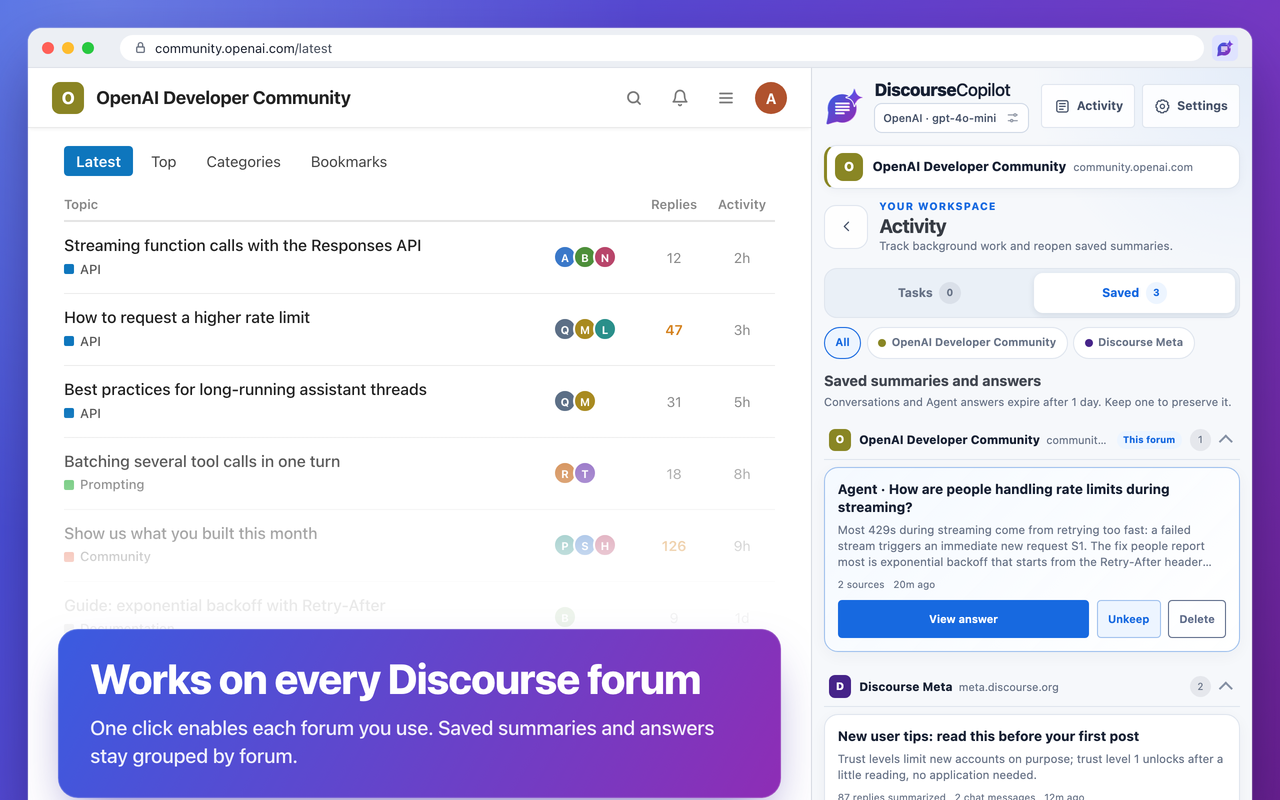
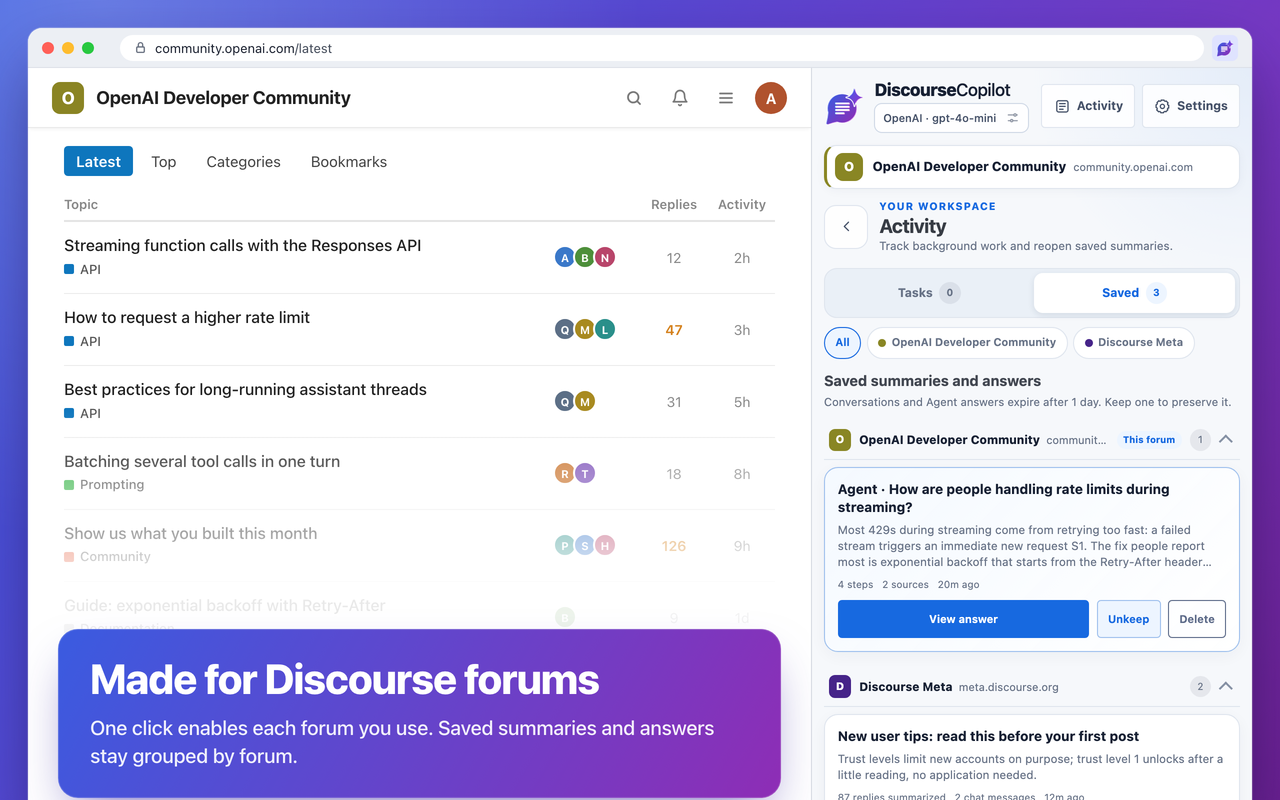
docs: privacy-first README, store review note, accuracy pass
Mirror the star call-to-action pattern, add a Privacy first section
backed by the code's actual network surface, explain the Chrome Web
Store review delay, remove overclaims across the docs, fix changelog
entries that were copied into older releases, and change store
screenshot 3's caption to "Made for Discourse forums".

Changed region(s): [[0.0625, 0.8125, 0.5625, 0.875], [0.6562, 0.7188, 0.75, 0.75]]

diff --git a/README.md b/README.md
@@ -5,41 +5,66 @@
   </picture>
 </h1>
 
+<h3 align="center">Catch up on any Discourse forum in seconds.</h3>
+
 <p align="center">
-  <strong>Catch up on any Discourse forum in seconds.</strong><br>
   Summarize long topics, ask follow-up questions, and let AI search the whole forum for you, with links to the posts it used.
 </p>
 
 <p align="center">
   <a href="https://chromewebstore.google.com/detail/discoursecopilot/dpngnaiiofobfjleabbhnfmdflddnhac"><img src="https://img.shields.io/chrome-web-store/v/dpngnaiiofobfjleabbhnfmdflddnhac?label=Chrome%20Web%20Store&logo=googlechrome&logoColor=white&color=4285F4" alt="Chrome Web Store version"></a>
-  <img src="https://img.shields.io/badge/license-Apache--2.0-blue.svg" alt="Apache-2.0 license">
+  <a href="https://github.com/kccarlos/DiscourseCopilot/releases/latest"><img src="https://img.shields.io/github/v/release/kccarlos/DiscourseCopilot?label=release&logo=github" alt="Latest GitHub release"></a>
+  <a href="LICENSE"><img src="https://img.shields.io/badge/license-Apache--2.0-blue" alt="License: Apache-2.0"></a>
+  <img src="https://img.shields.io/badge/Manifest-V3-4285F4?logo=googlechrome&logoColor=white" alt="Chrome extension, Manifest V3">
+  <a href="https://github.com/kccarlos/DiscourseCopilot/stargazers"><img src="https://img.shields.io/github/stars/kccarlos/DiscourseCopilot?style=social" alt="GitHub stars"></a>
 </p>
 
 <p align="center">
-  <a href="https://chromewebstore.google.com/detail/discoursecopilot/dpngnaiiofobfjleabbhnfmdflddnhac"><strong>➜ Add DiscourseCopilot to Chrome</strong></a> — free
+  <a href="https://chromewebstore.google.com/detail/discoursecopilot/dpngnaiiofobfjleabbhnfmdflddnhac"><strong>➜ Add DiscourseCopilot to Chrome</strong></a> (free)
+</p>
+
+<p align="center">
+  <a href="https://github.com/kccarlos/DiscourseCopilot"><b>⭐ Star on GitHub</b></a>
+  to follow new releases. It is free, and it helps other forum readers find DiscourseCopilot.
 </p>
 
 ![DiscourseCopilot in the Chrome side panel: a topic summary, an answer with sources, and dark mode](docs/screenshots/hero.png)
 
-DiscourseCopilot is a free Chrome extension. It opens in your browser's side panel next to any forum built on Discourse, like [meta.discourse.org](https://meta.discourse.org), [community.openai.com](https://community.openai.com), or your own community.
+DiscourseCopilot is a free, open-source Chrome extension. It opens in your browser's side panel next to a forum built on Discourse, like [meta.discourse.org](https://meta.discourse.org), [community.openai.com](https://community.openai.com), or your own community. You bring your own AI (a provider's API key, or a model on your own computer), and **it has no servers, accounts, or analytics of its own**: see [Privacy first](#privacy-first).
+
+## Privacy first
+
+DiscourseCopilot is built so your reading stays yours.
+
+- **No analytics, no tracking, no accounts.** There is no telemetry and no sign-up.
+- **No DiscourseCopilot servers.** Nothing is sent to the developer, because there is nowhere to send it.
+- **Your data stays in your browser.** Settings, API keys, and your saved summaries, chats, and answers are stored on your computer only.
+- **Only two kinds of network calls.**
+  1. **The forums you allow**, to read topics and search, using your existing login there. Access is granted one forum at a time and you can remove it in Settings.
+  2. **The AI provider you choose**, with your own key. It receives the forum text you ask about and your questions. **With a local model (Ollama or LM Studio), nothing leaves your computer** (unless you point it at a server on another machine).
+- **Your key goes only to its own provider.** That includes the request that lists the provider's models.
+
+The details, including what is stored and for how long, are in the [privacy policy](PRIVACY.md). The code is open, so you can check all of this yourself.
 
 ## Why you'll like it
 
 - **Skip the scroll.** Get the main points of a 500-reply topic without reading every post.
 - **Ask questions.** Chat about the topic: "What did people decide?" or "Is there a workaround?"
 - **Search the whole forum.** Ask a question and an agent looks through the forum for you, step by step, then answers with numbered sources you can click. You can watch what it does and ask follow-ups.
-- **Works on any Discourse forum.** Allow access once per forum you use; nothing else to set up.
-- **Use the AI you like.** OpenAI, Anthropic (Claude), Google Gemini, and more, or a free model running on your own computer.
-- **Private by design.** Your key and your history stay in your browser. No accounts and no tracking.
+- **Made for Discourse forums.** Allow access once per forum you use; nothing else to set up.
+- **Use the AI you like.** OpenAI, Anthropic (Claude), Google Gemini, and more (see [the list](#choosing-an-ai-provider)), or a free model running on your own computer.
 - **Keep browsing.** Work runs in the background, and you can come back to it later.
+- **Check the answers.** AI can be wrong. Summaries and answers link back to the posts so you can verify what matters.
 
 ## Get started in 3 steps
 
 **1. Install the extension.**
 Open [DiscourseCopilot in the Chrome Web Store](https://chromewebstore.google.com/detail/discoursecopilot/dpngnaiiofobfjleabbhnfmdflddnhac) and click **Add to Chrome**. Then click the puzzle-piece icon in the toolbar and pin **DiscourseCopilot** so it's easy to reach.
 
+> **About store updates.** New versions reach the Chrome Web Store only after Google reviews them, which can take anywhere from a few hours to several days. So the store can be a little behind the newest [GitHub Release](https://github.com/kccarlos/DiscourseCopilot/releases/latest). If you want the newest version right away, install the zip from GitHub (below). Chrome updates the store version for you once it is approved.
+
 <details>
-<summary>Prefer to install from GitHub instead?</summary>
+<summary>Want the newest version right away? Install from GitHub</summary>
 
 1. Go to the [Releases page](https://github.com/kccarlos/DiscourseCopilot/releases) and download the latest `discourse-copilot-<version>.zip`.
 2. Unzip it.
@@ -47,13 +72,15 @@ Open [DiscourseCopilot in the Chrome Web Store](https://chromewebstore.google.co
 4. Click **Load unpacked** and choose the unzipped folder.
 5. Click the puzzle-piece icon in the toolbar and pin **DiscourseCopilot**.
 
+An unpacked install is not updated automatically. To update it, download the new zip, replace the files in that folder, and click the reload icon on the extension's card in `chrome://extensions`. Chrome may show a "Developer mode" reminder when it starts; that is normal for extensions installed this way.
+
 </details>
 
 **2. Connect an AI provider.**
-Click the DiscourseCopilot icon to open the side panel. A short setup card asks you to pick a provider, paste your API key, and pick a model (a fast, low-cost one from your provider's current list is filled in for you). See [Choosing an AI provider](#choosing-an-ai-provider) if you're not sure which to pick.
+Click the DiscourseCopilot icon to open the side panel. A short setup card asks you to pick a provider, paste your API key, and pick a model (a recommended one from your provider's current list is filled in for you, usually a fast, low-cost model). See [Choosing an AI provider](#choosing-an-ai-provider) if you're not sure which to pick.
 
 **3. Open a forum topic, allow access, then Create summary.**
-Open any topic on a Discourse forum and click the DiscourseCopilot icon. The first time you use a forum, the side panel shows **Allow DiscourseCopilot on *forum name***: click **Allow access**, then choose **Allow** when Chrome asks. Then click **Create summary**. Each forum asks only once, and after that the DiscourseCopilot button also appears in the corner of its pages.
+Open any topic on a Discourse forum (log in first if it needs a login) and click the DiscourseCopilot icon. The first time you use a forum, the side panel shows **Allow DiscourseCopilot on *forum name***: click **Allow access**, then choose **Allow** when Chrome asks. Then click **Create summary**. Each forum asks only once, and after that the DiscourseCopilot button also appears in the corner of its pages.
 
 <img src="docs/screenshots/feature-allow-access.png" alt="The side panel asking to allow DiscourseCopilot on a forum, with three short steps and an Allow access button" width="420">
 
@@ -66,7 +93,7 @@ On a page that isn't a Discourse forum, the side panel says so and suggests foru
     <td width="50%" valign="top">
       <img src="docs/screenshots/feature-summary-chat.png" alt="A topic summary followed by a short chat about the topic">
       <p><strong>Summaries and chat</strong><br>
-      See the original post, how people responded, and the key takeaways, even on huge topics (every page is read, unless you set a limit). Then ask follow-up questions.</p>
+      See the original post, how people responded, and the key takeaways, even on huge topics (every page is read unless you set a limit, so very long topics take longer and use more of your provider's tokens). Then ask follow-up questions.</p>
     </td>
     <td width="50%" valign="top">
       <img src="docs/screenshots/feature-agent-answer.png" alt="An answer from Ask the forum with numbered sources">
@@ -109,7 +136,7 @@ The top of the side panel always shows which AI provider and model you're using.
 3. The answer appears with numbered sources like [S1]. Click one to jump to its source card, which links to the topic.
 4. Ask a **follow-up** under the answer. It continues the same conversation, on the same forum, with a fresh budget.
 
-The agent only reads: it never posts or changes anything. It can also look at your own saved summaries of that forum. Text from the forum is treated as material to quote, never as instructions. Because the agent asks your AI model for one action at a time, a larger model works best; very small local models may struggle to answer in the format it needs.
+The agent only reads: its tools can search, list, and read topics, and check your saved summaries, and none of them can post or change anything on the forum. Forum text is passed to the model as material to quote, with instructions not to follow commands found in it (a model can still be misled by cleverly written text, which is why the agent has no tools that write). Because the agent asks your AI model for one action at a time in a fixed format, a capable model works best; very small local models may struggle to follow it.
 
 ## Choosing an AI provider
 
@@ -157,17 +184,19 @@ Open **Settings** from the side panel (or right-click the extension icon and cho
 
 ## Privacy in plain words
 
-- **Your key and history stay in your browser.** Settings, API keys, summaries, chats, and answers are saved on your computer only.
-- **Forum posts go only to the AI you chose.** When you summarize or ask something, the topic and your question are sent straight from your browser to your AI provider.
+The short version is in [Privacy first](#privacy-first). In detail:
+
+- **Your key and history stay in your browser.** Settings, API keys, summaries, chats, and answers are saved on your computer only (in the extension's own storage). Chrome stores them unencrypted, so anyone who can use your Chrome profile on your computer could read them. Remove them in Settings, or by uninstalling the extension.
+- **Forum posts go only to the AI you chose.** When you summarize or ask something, the topic text and your question are sent straight from your browser to your AI provider. Check your provider's privacy policy for what it does with them. With a local model on your own computer, they go nowhere else.
 - **No middleman.** There are no DiscourseCopilot servers, no accounts, and no analytics.
-- **It only reads forums you enable.** Chrome gives it access to a forum only after you click **Allow access** for that forum, and you can remove access anytime in Settings. It can't see other websites.
+- **It only reads forums you enable.** Chrome gives it access to a forum only after you click **Allow access** for that forum, and you can remove access anytime in Settings. When you click the toolbar icon, it takes a one-time look at that page to see whether it is a Discourse forum; that is all it learns about other sites. The side panel also loads the forum icon (`/favicon.ico`) from the forum you are on.
 
 Read the full [privacy policy](PRIVACY.md).
 
 ## FAQ
 
-**Does it work on forums where I have to log in, or on private forums?**
-Yes. It reads the forum the same way your browser does, using your login. If you're logged in, it can read what you can read. If the forum asks you to log in or pass a check, log in on that forum in a normal tab. For **Ask the forum**, the search pauses and waits: click **Continue** when you're done. For a summary, just click **Create summary** again.
+**Does it work on every Discourse forum, including ones where I have to log in?**
+It works on Discourse forums in general, but a forum's own settings still apply. DiscourseCopilot reads a forum the same way your browser does, using your login, so if you're logged in it can read what you can read. Some forums restrict search or reading for certain users, limit how fast they can be read, or show a check that automated requests can't pass; there, a summary or answer can be incomplete or fail. If the forum asks you to log in or pass a check, do that on the forum in a normal tab. For **Ask the forum**, the search pauses and waits: click **Continue** when you're done. For a summary, just click **Create summary** again.
 
 **Why does it ask for permission per forum?**
 Discourse forums live on thousands of different websites, so DiscourseCopilot can't know them in advance. Instead of asking to "read and change all your data on all websites" when you install it, it asks for one forum at a time, the first time you use that forum. That access lets it read topics and search the forum in the background (even after you switch tabs) using your login there. You can see and remove every forum you allowed in **Settings → Forum access**; removing access doesn't delete your saved summaries or answers.
@@ -182,7 +211,7 @@ Version 2.1 switched from access to every website to access per forum, so forums
 There are two kinds. If the *forum* asks DiscourseCopilot to slow down, the side panel shows "Forum asked us to slow down" and tries again on its own after a short wait, so you don't need to do anything. If your *AI provider* is limiting you, wait a minute and try again, and check your plan and usage with your provider.
 
 **"Ask the forum" is greyed out, or the side panel doesn't recognize the forum.**
-Click the DiscourseCopilot icon in the toolbar while the forum is open, and click **Allow access** if the side panel asks (then choose **Allow** in Chrome's prompt). Also make sure you're on a Discourse forum (most say "Powered by Discourse" at the bottom). If you allowed access from the **Is this a Discourse forum?** card on a site that isn't one, remove it in **Settings → Forum access**.
+Click the DiscourseCopilot icon in the toolbar while the forum is open, and click **Allow access** if the side panel asks (then choose **Allow** in Chrome's prompt). Also make sure you're on a Discourse forum (many say "Powered by Discourse" at the bottom). If you allowed access from the **Is this a Discourse forum?** card on a site that isn't one, remove it in **Settings → Forum access**.
 
 **My summary says "Page limit reached" or "first 1,999 of 2,430 replies".**
 You've set a limit on **Pages read per topic**, so a longer topic is summarized from its first pages. To include more, choose **Read every page** (or a higher limit) in Settings, then click **Check for new replies**. It will take longer and cost a bit more. By default there is no limit. On the rare forum that doesn't report a topic's length, reading stops after 100 pages (10,000 posts) as a safety net.
@@ -194,7 +223,10 @@ Open Settings, scroll to **Forum access**, and turn off **Show the DiscourseCopi
 DiscourseCopilot removes the `Origin` header from its own requests to `localhost`, `127.0.0.1` and any local server address you allowed, which is what lets a default Ollama install accept it. Web pages are not affected, so Ollama still refuses them. If you still see a 403, update Ollama and reload the extension; as a fallback, start Ollama with `OLLAMA_ORIGINS=chrome-extension://*`.
 
 **What gets sent, and to whom?**
-Only the forum content needed for your request and your question, sent to the AI provider you set up. Nothing is sent to us. The forum itself only sees normal page requests from your browser, like when you browse it.
+Only the forum content needed for your request and your question, sent to the AI provider you set up (or to your local model server). Nothing is sent to us. The forum sees requests for its topic and search data, made from your browser with your login, the same kind your browser makes when you read it, so forum admins may see them in their logs. See [Privacy first](#privacy-first).
+
+**Why is the Chrome Web Store version older than the latest GitHub Release?**
+Every new version goes through Google's review before the store offers it. That can take from a few hours to several days, so the store may lag behind GitHub. Once approved, Chrome updates the extension for you. To get a release right away, install its zip from the [Releases page](https://github.com/kccarlos/DiscourseCopilot/releases/latest) (see [Get started](#get-started-in-3-steps)), and switch back to the store version later if you like.
 
 **Does it cost anything?**
 The extension is free. Your AI provider may charge for usage, usually a small amount per summary. Local models (Ollama, LM Studio) cost nothing to use.
@@ -218,3 +250,5 @@ Open Settings, check the key and model, and click **Test Connection**. Also chec
 ## License
 
 Apache License 2.0. See [LICENSE](LICENSE). Made by [kccarlos](https://github.com/kccarlos).
+
+If DiscourseCopilot saves you time, a [⭐ star on GitHub](https://github.com/kccarlos/DiscourseCopilot) is a friendly way to say thanks. It helps other forum readers find the extension.

diff --git a/CHANGELOG.md b/CHANGELOG.md
@@ -1,14 +1,16 @@
 # Changelog
 
-Notable changes to DiscourseCopilot. The format follows [Keep a Changelog](https://keepachangelog.com/en/1.1.0/), and versions follow [Semantic Versioning](https://semver.org/spec/v2.0.0.html). Each release is on the [Chrome Web Store](https://chromewebstore.google.com/detail/discoursecopilot/dpngnaiiofobfjleabbhnfmdflddnhac) and on the [Releases page](https://github.com/kccarlos/DiscourseCopilot/releases).
+Notable changes to DiscourseCopilot. The format follows [Keep a Changelog](https://keepachangelog.com/en/1.1.0/), and versions follow [Semantic Versioning](https://semver.org/spec/v2.0.0.html). Each release is published on the [Releases page](https://github.com/kccarlos/DiscourseCopilot/releases) (with the installable zip) and submitted to the [Chrome Web Store](https://chromewebstore.google.com/detail/discoursecopilot/dpngnaiiofobfjleabbhnfmdflddnhac). The store offers a version only after Google's review, which can take from a few hours to several days, so it may lag behind the newest release.
 
 ## [Unreleased]
+
+## [2.2.1] - 2026-10-03
 
 ### Changed
 
 - Security: replaced the vulnerable dev-only `web-ext-run` dependency tree (pulled in by `vite-plugin-web-extension`, used only for its browser-launch mode) with a local stub, clearing all 13 `pnpm audit` findings. Also bumped the AI SDK packages, Biome, Vite and sharp within their ranges.
+- Docs: README highlights the privacy-first design, explains that Chrome Web Store updates wait for Google's review, and no longer overclaims; store screenshot 3 now reads "Made for Discourse forums".
 
-## [2.2.1] - 2026-10-03
 
 ### Fixed
 - Local models (Ollama, LM Studio): summaries, chat and Ask the forum failed with "Forbidden" on a default Ollama install, because Ollama refuses requests that carry a browser extension's `Origin` header. The extension now removes that header from its own requests to `localhost`, `127.0.0.1` and a local server address you allowed (one `declarativeNetRequestWithHostAccess` rule, no new install warning). Requests from web pages are not changed. `OLLAMA_ORIGINS` is no longer needed; the setup and settings hints about it are gone, and the 403 message only suggests it as a fallback.
@@ -19,7 +21,7 @@ Notable changes to DiscourseCopilot. The format follows [Keep a Changelog](https
 ## [2.2.0] - 2026-10-02
 
 ### Added
-- Ask the forum is now an agent. It plans one step at a time (search the forum, list the latest topics, read a topic, check your saved summaries), you can watch and open each step, and it answers with [S#] sources that link to the topics it read. It works with every AI provider (the model replies with one JSON action per turn, no native tool calling needed), and the answer streams in.
+- Ask the forum is now an agent. It plans one step at a time (search the forum, list the latest topics, read a topic, check your saved summaries), you can watch and open each step, and it answers with [S#] sources that link to the topics it read. It does not need native tool calling from the provider (the model replies with one JSON action per turn), so it can work with any of the supported providers, though very small local models may struggle to keep to the format. The answer streams in.
 - Follow-up questions under an answer continue the same run on the same forum, with a fresh budget, and add a new answer.
 - A run is saved after every step: it resumes from the last finished step after a browser or service-worker restart, and **Continue** after a login or forum-access pause picks up the step that was waiting.
 - Model selection from the provider's live list: once a key (or local server address) is entered, the setup card and Settings list the models the provider offers today and pre-select a curated fast, low-cost model (or a sensible available one). A saved model is never changed; Settings warns when the provider no longer offers it.
@@ -48,30 +50,20 @@ Notable changes to DiscourseCopilot. The format follows [Keep a Changelog](https
 First release published through the automated Chrome Web Store pipeline. No changes to the extension since 2.1.0.
 
 ### Added
-- Ask the forum is now an agent. It plans one step at a time (search the forum, list the latest topics, read a topic, check your saved summaries), you can watch and open each step, and it answers with [S#] sources that link to the topics it read. It works with every AI provider (the model replies with one JSON action per turn, no native tool calling needed), and the answer streams in.
-- Follow-up questions under an answer continue the same run on the same forum, with a fresh budget, and add a new answer.
-- A run is saved after every step: it resumes from the last finished step after a browser or service-worker restart, and **Continue** after a login or forum-access pause picks up the step that was waiting.
 - Release workflow uploads each tagged version to the Chrome Web Store (API v2, signed in through Workload Identity Federation, no stored keys) and submits it for review when enabled.
 
 ### Changed
-- Settings → Ask the forum now sets the agent's budget instead of searches and result pages: steps, topics read and characters per read (Quick 6/3/12k, Balanced 15/8/30k, Thorough 25/14/45k, Custom). Earlier custom limits are converted to an equivalent budget; runs already queued keep what they were queued with.
-- Saved and Activity cards for Ask the forum show the question, the number of steps and sources. Answers from before this change still open, with their searches shown as steps.
 - README installs from the Chrome Web Store; the GitHub Releases zip is the alternative.
 
 ## [2.1.0] - 2026-09-23
 
 ### Changed
-- Settings → Ask the forum now sets the agent's budget instead of searches and result pages: steps, topics read and characters per read (Quick 6/3/12k, Balanced 15/8/30k, Thorough 25/14/45k, Custom). Earlier custom limits are converted to an equivalent budget; runs already queued keep what they were queued with.
-- Saved and Activity cards for Ask the forum show the question, the number of steps and sources. Answers from before this change still open, with their searches shown as steps.
 - Forum access is requested per forum instead of for all websites (`<all_urls>` removed). At install the extension can reach only the AI providers' APIs and your own computer (local models); each Discourse forum is allowed the first time you use it (**Allow access to {forum}**), and the in-page button runs only on allowed forums. Forums used with 2.0 need one click on **Allow access**. New `activeTab` and `scripting` permissions let the side panel check a page for Discourse after you click the toolbar icon, and register the in-page script for allowed forums.
 - The side panel shows one guidance card per page state: page not checked yet, not a Discourse forum, allow access (with Chrome's prompt steps), forum home, and a two-step checklist when provider setup is also pending.
 - Background tasks check forum access and explain how to allow it; Ask the forum waits for access and continues once it is granted.
 - Store listing description no longer lists AI provider names (the Chrome Web Store flagged the list as keyword spam).
 
 ### Added
-- Ask the forum is now an agent. It plans one step at a time (search the forum, list the latest topics, read a topic, check your saved summaries), you can watch and open each step, and it answers with [S#] sources that link to the topics it read. It works with every AI provider (the model replies with one JSON action per turn, no native tool calling needed), and the answer streams in.
-- Follow-up questions under an answer continue the same run on the same forum, with a fresh budget, and add a new answer.
-- A run is saved after every step: it resumes from the last finished step after a browser or service-worker restart, and **Continue** after a login or forum-access pause picks up the step that was waiting.
 - **Settings → Forum access** lists the allowed forums, with **Remove access** (saved summaries and answers are kept).
 
 ## [2.0.0] - 2026-09-23
@@ -79,9 +71,6 @@ First release published through the automated Chrome Web Store pipeline. No chan
 First public release.
 
 ### Added
-- Ask the forum is now an agent. It plans one step at a time (search the forum, list the latest topics, read a topic, check your saved summaries), you can watch and open each step, and it answers with [S#] sources that link to the topics it read. It works with every AI provider (the model replies with one JSON action per turn, no native tool calling needed), and the answer streams in.
-- Follow-up questions under an answer continue the same run on the same forum, with a fresh budget, and add a new answer.
-- A run is saved after every step: it resumes from the last finished step after a browser or service-worker restart, and **Continue** after a login or forum-access pause picks up the step that was waiting.
 - Side panel for any Discourse forum: topic summaries (original post, how people responded, key takeaways), follow-up chat, and **Ask the forum**, which searches the forum, reads the best matches and answers with numbered, clickable sources.
 - Bring your own AI: OpenRouter, OpenAI, Anthropic, Google Gemini, Groq, xAI, DeepSeek, or a local Ollama or LM Studio server.
 - Work runs in the background and can be picked up later; Activity lists saved summaries, chats and answers grouped by forum, with **Keep**.

diff --git a/PRIVACY.md b/PRIVACY.md
@@ -1,10 +1,10 @@
 # Privacy Policy for DiscourseCopilot
 
-**Last Updated:** September 29, 2026
+**Last Updated:** October 3, 2026
 
 ## Overview
 
-DiscourseCopilot is a browser extension that summarizes and answers questions about discussions on Discourse forums you visit, using an AI provider you configure. It works on any Discourse forum (for example community.openai.com or meta.discourse.org). This policy explains what data the extension handles and where it goes.
+DiscourseCopilot is a browser extension that summarizes and answers questions about discussions on Discourse forums you visit, using an AI provider you configure. It is made for Discourse forums (for example community.openai.com or meta.discourse.org). This policy explains what data the extension handles and where it goes.
 
 ## Permissions and site access
 
@@ -12,10 +12,10 @@ Discourse forums are hosted on arbitrary domains, so the extension cannot list t
 
 - **Forums you enable** (optional host permission, per forum): the extension reads topics and search results from that forum, using your existing browser session there (so login-required forums work when you are logged in). A small content script runs on that forum's pages to detect the topic you are viewing and show the in-page DiscourseCopilot button. You can see and remove every enabled forum under **Settings → Forum access**; removing access keeps your saved summaries and answers.
 - **AI provider hosts** (requested at install): the API addresses of the supported providers (OpenRouter, OpenAI, Anthropic, Groq, Google Gemini, xAI, DeepSeek) and `localhost` / `127.0.0.1` for Ollama and LM Studio. They are used only to send your requests to the provider you configured, and to read that provider's list of available models. A local model server on another computer is added (optional host permission for that one address) only when you enter its address and allow it.
-- **Checking the current page** (`activeTab` and `scripting`): when you click the DiscourseCopilot toolbar icon, the extension may look once at that tab to see whether it is a Discourse forum (the `generator` meta tag, the `discourse-base-uri` meta tag, or Discourse's setup element) and read its address and title. This happens only after your click, only for that tab, and nothing is stored or sent anywhere.
+- **Checking the current page** (`activeTab` and `scripting`): when you click the DiscourseCopilot toolbar icon, the extension may look once at that tab to see whether it is a Discourse forum (the `generator` meta tag, the `discourse-base-uri` meta tag, or Discourse's setup element) and read its address and title. This happens only after your click and only for that tab. The result is not sent anywhere; the only thing remembered is that you clicked in that tab, kept in session storage (cleared when the browser closes).
 - **Local model servers and request headers** (`declarativeNetRequestWithHostAccess`): Ollama refuses requests that carry a browser extension's `Origin` header. The extension therefore removes that one header from its own requests to `localhost`, `127.0.0.1` and a local model server address you entered and allowed. It changes nothing else, never touches requests from web pages or to any other address, and sends no additional data anywhere.
 - **Other permissions**: `storage` (settings on your device), `sidePanel` (the side panel), `alarms` (keeps background tasks running while you browse).
-- The extension never sends requests to sites you have not enabled, and it cannot see which websites you visit.
+- The extension does not read forums you have not enabled, and it cannot see which websites you visit. Two small things involve the page you are on: the one-time check described above (after you click the toolbar icon), and the side panel's forum bar, which loads that forum's own icon (`/favicon.ico`) directly from the forum, as any web page would; it is requested without a referrer and can happen before you allow access. Links to AI provider sites (for example "Get a key") open only when you click them.
 
 ## Data Collection and Usage
 
@@ -23,7 +23,7 @@ Discourse forums are hosted on arbitrary domains, so the extension cannot list t
 - **Forum content and summaries**: Topic pages you choose to summarize and the resulting summaries, saved in extension-owned IndexedDB so you can return to them. Saved sessions are keyed by forum and topic, so different forums are kept separate.
 - **Follow-up chat and Agent answers**: Recent questions, answers, search queries, and source references.
 - **Task status**: Queued, running, completed, failed, and cancelled task metadata so work can be restored and managed.
-- **API keys and settings**: Your AI provider credentials, model choices, favorite models, custom instructions, response language, and other preferences (research depth, pages read per topic, chat context, history settings), stored in Chrome local storage.
+- **API keys and settings**: Your AI provider credentials, model choices, favorite models, custom instructions, response language, and other preferences (research depth, pages read per topic, chat context, history settings), stored in Chrome local storage. Chrome does not encrypt this storage, so anyone who can use your Chrome profile on your computer could read your keys; remove them in Settings (or uninstall the extension) if you no longer want them there.
 - **Model lists**: The list of models your provider offers, kept for about 10 minutes in Chrome session storage (cleared when the browser closes) so the model field doesn't ask again on every keystroke. It is stored under a one-way hash of your key, never the key itself.
 
 ### What the extension fetches from a forum
@@ -54,7 +54,9 @@ Only from forums you enabled, and only the forum of the current page or task:
   - [Anthropic Privacy Policy](https://www.anthropic.com/privacy)
   - [Groq Privacy Policy](https://groq.com/privacy-policy/)
   - [Google Privacy Policy](https://policies.google.com/privacy)
-- With a local provider (Ollama or LM Studio), content stays on your machine.
+  - [xAI Privacy Policy](https://x.ai/legal/privacy-policy)
+  - [DeepSeek Privacy Policy](https://cdn.deepseek.com/policies/en-US/deepseek-privacy-policy.html)
+- With a local provider (Ollama or LM Studio) on your own computer, content does not leave it. If you enter the address of a server on another computer, content goes to that server.
 
 ## Data Retention
 
@@ -80,7 +82,7 @@ You can:
 
 ### Discourse forums
 - Content is read from the forum you are viewing, subject to that forum's own terms and privacy policy.
-- Requests carry your existing session for that forum, exactly as your browser would when you view the pages yourself.
+- Requests carry your existing session for that forum, exactly as your browser would when you view the pages yourself, so the forum can see these requests in its logs like any other visit.
 - Forum content is cached only in your browser.
 
 ### AI providers

diff --git a/DEVELOPMENT.md b/DEVELOPMENT.md
@@ -194,6 +194,8 @@ So the service worker, the content script and the shared modules never depend on
 
 The manifest asks only for the AI providers' API hosts and `localhost`/`127.0.0.1` (Ollama, LM Studio) as `host_permissions`. Forums are `optional_host_permissions` (`https://*/*`, plus `http://*/*` for a local-model server on another computer), granted one origin at a time (`https://forum.example.com/*`; subfolder installs and ports share it). There is no static content script and no `tabs` permission. `src/shared/forum-access.mjs` owns all of it.
 
+**Network surface (keep the privacy claims true).** The README, `PRIVACY.md` and the store listing say the extension makes no analytics or other third-party calls. Today its only network requests are: the forum's own `/t/{id}.json`, `/raw/{id}`, `/search.json` and `/latest.json` (background, credentials included, only for an allowed forum), the forum's `/favicon.ico` as an `<img>` in the side panel's forum bar (the current forum, even before access is allowed), the AI provider's API and its model-list endpoint (`model-catalog.mjs`, the key sent only to that provider), and local model servers. There are no remote fonts, scripts, CDNs or tracking calls, and the provider "Get a key" links only open on click. If you add a request to anywhere else, update those documents first.
+
 ```
   side panel: page without access                       background (service worker)
   ─────────────────────────────                         ───────────────────────────
@@ -333,7 +335,7 @@ The status line, the save bar's state label ("Unsaved changes", "Saving…", "Sa
 
 ### Ask the forum (the agent)
 
-Ask the forum is a read-only agent. The model is asked for **one JSON action per turn**, `{"tool": "...", "arguments": {...}, "reason": "..."}`, so it works with every provider and needs no native tool calling. The loop (`src/background/agent-loop.mjs`) runs the action, appends the observation, and asks again until `final_answer` or the step budget is spent.
+Ask the forum is a read-only agent. The model is asked for **one JSON action per turn**, `{"tool": "...", "arguments": {...}, "reason": "..."}`, so it needs no native tool calling and can work with any supported provider (very small local models may not keep to the format; see Risks below). The loop (`src/background/agent-loop.mjs`) runs the action, appends the observation, and asks again until `final_answer` or the step budget is spent.
 
 ```
   User        Panel            Executor / loop            Model             Forum
@@ -365,7 +367,7 @@ Ask the forum is a read-only agent. The model is asked for **one JSON action per
 | --- | --- | --- |
 | `search_forum` | `query` (Discourse search syntax), `page` 1–3 | `/search.json`; up to 20 topics with id, title, posts, last activity, excerpt |
 | `list_latest` | none | `/latest.json`; about 30 topics |
-| `read_topic` | `topic_id` (digits), `page` (optional) | Topic metadata plus posts from `/raw/{id}`; returns a source number `[S#]`. A topic over 100 posts is read as its opening (page 1) plus its newest replies (last page) with a marker for the omitted middle; `page` reads another part. Trimmed to `maxCharsPerRead` (40% head, 60% tail) |
+| `read_topic` | `topic_id` (digits), `page` (optional) | Topic metadata plus posts from `/raw/{id}`; returns a source number `[S#]`. A topic over 100 posts is read as its opening (page 1) plus its newest replies (last page) with a marker for the omitted middle; `page` reads another part. Trimmed to `maxCharsPerRead`: 40% head, 60% tail for the opening-plus-newest view; a one-page topic or an explicit `page` keeps 70% head, 30% tail |
 | `saved_summaries` | `query` (optional) | The user's saved summaries for this forum from IndexedDB (no network); with a query, the matching text, each with a source number |
 | `final_answer` | `answer` (a one-sentence gist) | Ends the loop; the full answer is then written by one streamed call |
 
@@ -414,7 +416,7 @@ Before pushing, `pnpm test && pnpm check && pnpm build` covers everything except
    - `CWS_AUTO_PUBLISH` = `true`: submits the item for review (`publishType: DEFAULT_PUBLISH`, so it goes live automatically once approved).
    - anything else (the current setting is `false`): leaves the upload as a draft. Open the [developer dashboard](https://chrome.google.com/webstore/devconsole), check the draft (listing text, see [store-assets/LISTING.md](store-assets/LISTING.md)) and click **Submit for review**.
 
-Google reviews every update before it reaches users; the dashboard shows the review status. To switch automatic submission on or off: `gh variable set CWS_AUTO_PUBLISH --body true` (or `false`).
+Google reviews every update before it reaches users, which can take from a few hours to several days, so the store can lag behind the GitHub Release (the README tells users so and points them to the release zip); the dashboard shows the review status. The README's store-version badge shows what the store currently serves. To switch automatic submission on or off: `gh variable set CWS_AUTO_PUBLISH --body true` (or `false`).
 
 The workflow can also be started by hand (**Actions → Release → Run workflow**, with an existing tag). That only rebuilds and creates the GitHub Release; the store job runs for tag pushes only, because the identity provider trusts nothing else.
 
@@ -487,7 +489,7 @@ Then add the service account's email under **Account → Service account** in th
 
 ```
 tools/ui/
-  flows.mjs           UI regression suite: ~41 scenarios, ~540 checks per theme (incl. content.js on a stand-in forum page, fixtures/discourse-topic.html)
+  flows.mjs           UI regression suite: one scenario per flow, every check run in light and dark (incl. content.js on a stand-in forum page, fixtures/discourse-topic.html)
   readme-shots.mjs    docs/screenshots/*.png: panels → framed composition → palette PNG
   store-shots.mjs     store-assets/*.png: 1280x800 screenshots and promo tiles (24-bit, no alpha)
   pixdiff.mjs         compare two PNGs or two folders of PNGs

diff --git a/store-assets/LISTING.md b/store-assets/LISTING.md
@@ -1,6 +1,6 @@
 # Chrome Web Store listing
 
-The text submitted to the Chrome Web Store for DiscourseCopilot, kept here so it changes together with the extension. Update it whenever `manifest.json` permissions or user-facing features change. Current as of version 2.2.1. The release workflow uploads only the package: listing text, screenshots and permission justifications are edited by hand in the [developer dashboard](https://chrome.google.com/webstore/devconsole), so copy any change made here there too (and the other way round). The short description comes from `description` in `manifest.json`.
+The text submitted to the Chrome Web Store for DiscourseCopilot, kept here so it changes together with the extension. Update it whenever `manifest.json` permissions or user-facing features change. Current as of version 2.2.1. The release workflow uploads only the package, never this text: the listing text, screenshots and permission justifications are pasted by hand into the [developer dashboard](https://chrome.google.com/webstore/devconsole), so copy any change made here there too (and the other way round). The short description comes from `description` in `manifest.json`.
 
 ## Summary (short description, max 132 characters)
 
@@ -15,13 +15,13 @@ DiscourseCopilot helps you catch up on any Discourse forum in seconds, right fro
 • Summarize long topics: the original post, how people responded, and the key takeaways, even on topics with thousands of replies.
 • Ask follow-up questions about the topic you're reading.
 • Ask the forum: an agent searches the forum, reads the most relevant discussions step by step (you can watch each step), and answers with numbered sources you can click. Ask follow-up questions on the same answer.
-• Works on any forum built with Discourse, including your own community. One click allows each forum you use; there's no access to other websites.
+• Made for forums built with Discourse, including your own community. One click allows each forum you use; the extension does not read other websites.
 • Bring your own AI: connect the AI provider you already use with your own API key, or run a model on your own computer.
 • Your language: answers follow the language of the discussion, or one you choose.
 • Organized history: saved summaries, chats and answers, grouped by forum. Keep the ones you need.
 • Light and dark mode.
 
-Private by design: your API key and history stay in your browser. Forum content is sent only to the AI provider you choose. DiscourseCopilot reads only the forums you allow, and you can remove access anytime in Settings. No accounts, no analytics, no tracking.
+Privacy first: your API key and history stay in your browser. Forum content is sent only to the AI provider you choose (or stays on your computer with a local model). DiscourseCopilot reads only the forums you allow, and you can remove access anytime in Settings. No accounts, no analytics, no tracking.
 
 Free and open source (Apache-2.0): https://github.com/kccarlos/DiscourseCopilot
 
@@ -69,7 +69,7 @@ Captions (title, then subtitle), also free of provider brand names:
 
 1. `01-summarize-topics.png`: **Summarize any Discourse topic in seconds.** Get the main points of a long thread, then ask follow-up questions about it.
 2. `02-ask-the-forum.png`: **Ask the whole forum — answers with sources.** An agent searches and reads step by step, then cites the posts it used.
-3. `03-every-discourse-forum.png`: **Works on every Discourse forum.** One click enables each forum you use. Saved summaries and answers stay grouped by forum.
+3. `03-every-discourse-forum.png`: **Made for Discourse forums.** One click enables each forum you use. Saved summaries and answers stay grouped by forum.
 4. `04-bring-your-own-ai.png`: **Bring your own AI.** Connect the AI provider you already use, or run a model on your own computer. Your key stays in your browser.
 5. `05-light-and-dark-mode.png`: **Light and dark mode.** The side panel follows your system theme automatically.
 

diff --git a/SECURITY.md b/SECURITY.md
@@ -1,6 +1,6 @@
 # Security Policy
 
-DiscourseCopilot runs with access to the Discourse forums you visit and stores your AI provider API keys in your browser, so security reports are taken seriously.
+DiscourseCopilot can read the Discourse forums you allow it to (with your login there) and stores your AI provider API keys in your browser, so security reports are taken seriously.
 
 ## Reporting a vulnerability
 
